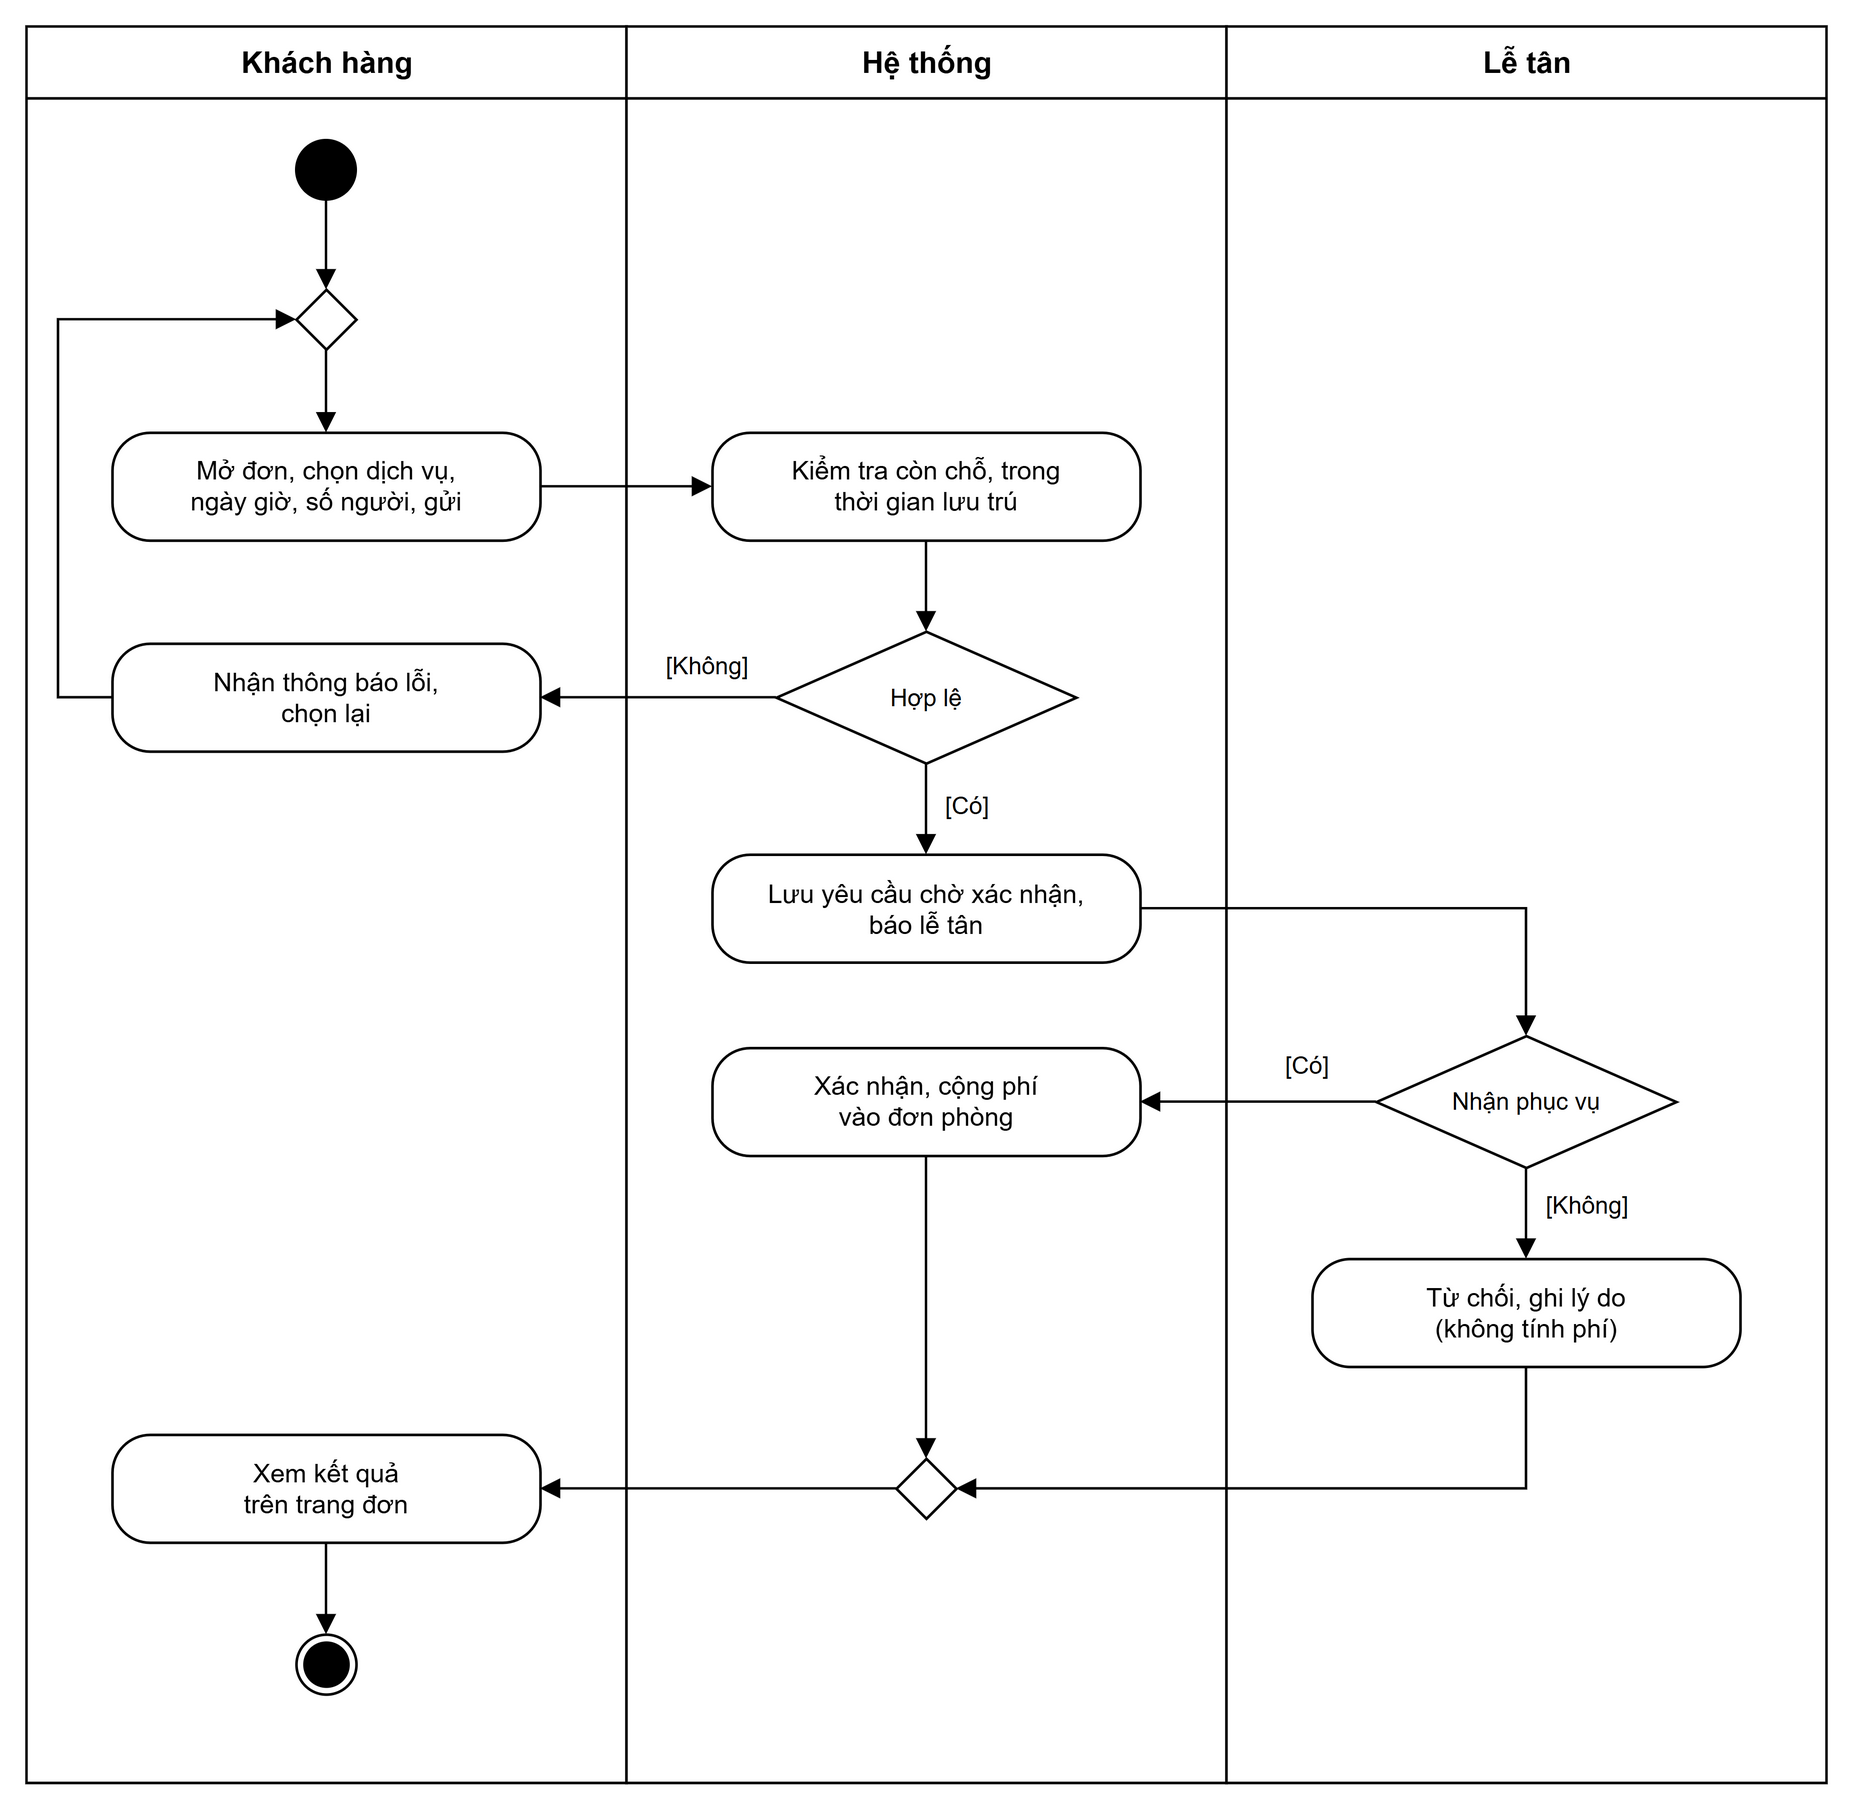
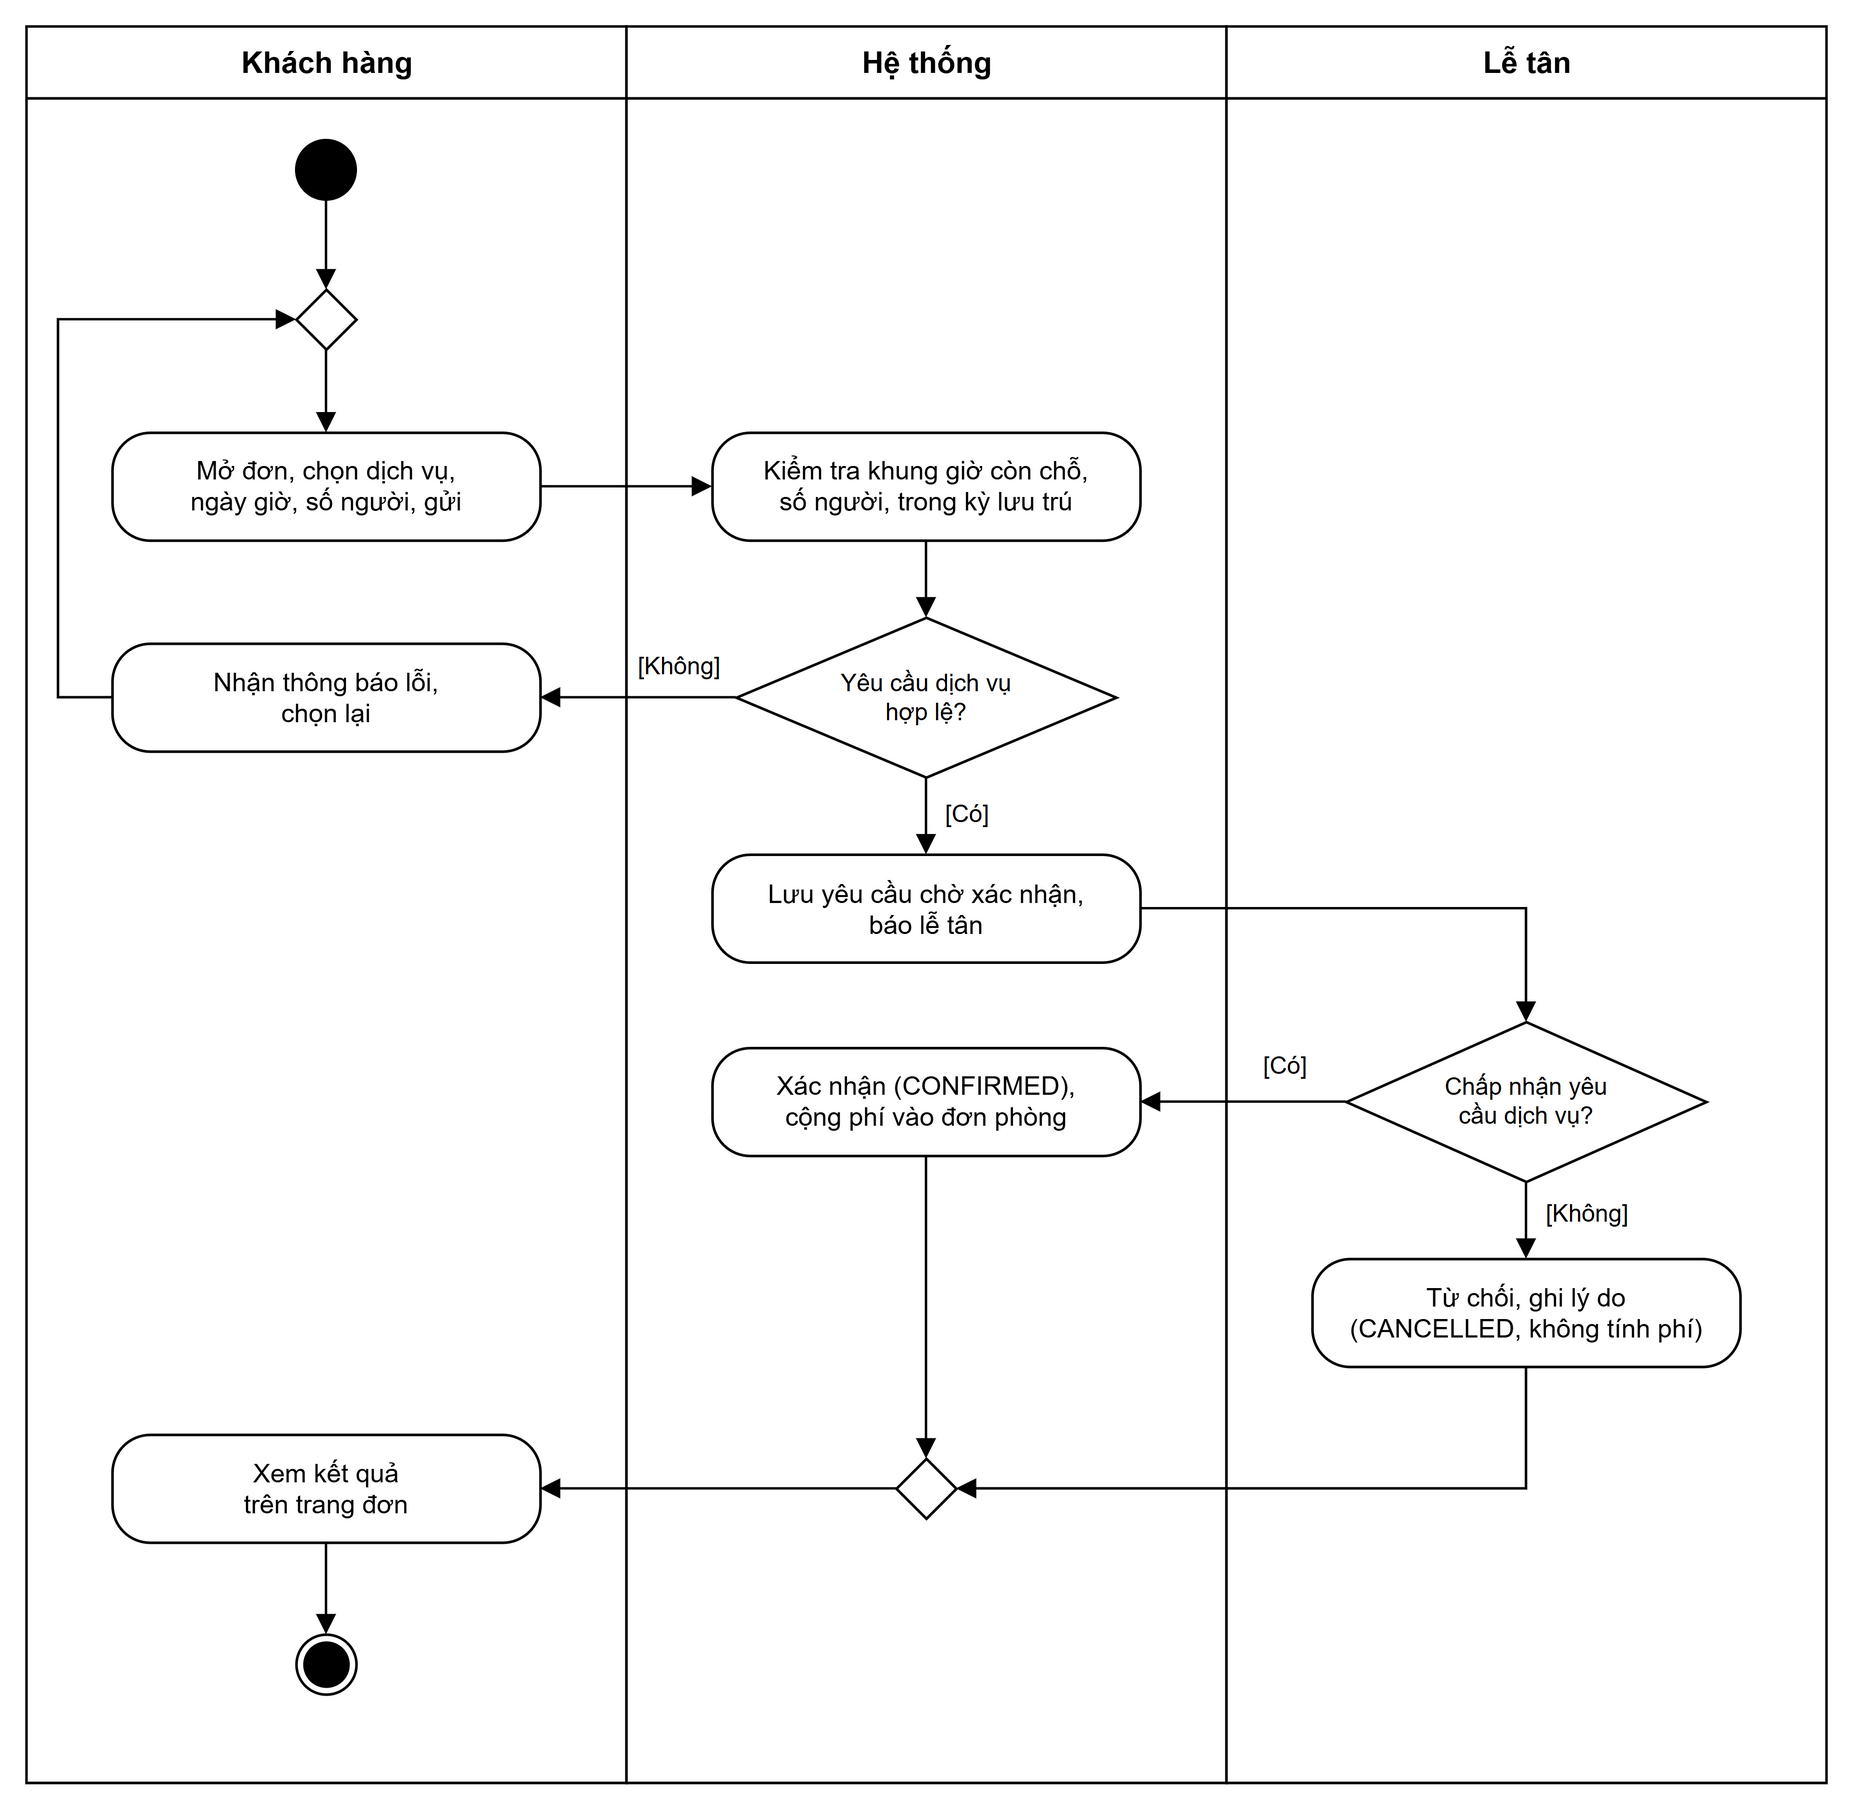
Bieu do hoat dong: ap dung nhan xet (doi chieu code) tren file chu du an - ten hinh thoi dang cau hoi, VNPay chi xu ly giao dich, bao het phong, kiem chua dat ghi ly do bao lam lai, nhanh loi AI; cap nhat TIEN-DO

diff --git a/TIEN-DO.md b/TIEN-DO.md
@@ -37,6 +37,7 @@
 ### Đợt 22 (30/10/2026) - Soát báo cáo Word, sửa chỗ lệch với code / sơ đồ mới
 | Commit | Chức năng |
 |---|---|
+| (xem `git log`) | Theo bản nhận xét chủ dự án dán vào («tham khảo xem»), đối chiếu code rồi sửa thẳng trên 5 file `hd-*.drawio` của chủ dự án (giữ bố cục, nhãn, độ rộng làn; script `hd_review.py`): tên hình thoi thành câu hỏi có «?» (Có phát sinh phụ phí?, Có yêu cầu kiểm tra phòng?, Số tiền cần hoàn > 0?, Hoàn tiền qua VNPay thành công?, Yêu cầu dịch vụ hợp lệ?, Chấp nhận yêu cầu dịch vụ?, Có yêu cầu phân tích bằng AI?, Nhận được kết quả AI hợp lệ?). **2.8**: hộp «Báo phòng đã hết» trước khi quay lại tìm phòng; khách «Thanh toán trên cổng VNPay» ở làn Khách hàng, làn VNPay chỉ còn «Xử lý giao dịch, gửi kết quả»; «Tạo URL thanh toán VNPay kèm chữ ký bảo mật»; lỗi thanh toán → «đơn vẫn chờ đặt cọc». **2.9**: kiểm chưa đạt → lễ tân «Ghi lý do chưa đạt, báo buồng phòng làm lại» (`HousekeepingService.fail`) rồi mới quay về dọn. **2.10**: «Tính trước số tiền dự kiến» / «Chuyển CANCELLED, chốt số tiền hoàn», «Hoàn lại điểm thưởng / số dư thẻ quà tặng (nếu có)», «Chuyển khoản thủ công». **2.11**: CONFIRMED / CANCELLED ghi rõ (code không có trạng thái REJECTED, không gửi email kết quả dịch vụ nên không thêm). **2.12**: nhánh lỗi có hộp «Báo lỗi rõ lý do (giữ báo cáo cơ bản)», làn Hệ thống nới 300 → 440. Viết lại 5 đoạn mô tả dưới hình trong `patch_hd.py`. **Chưa ghi vào Word** (Word đang mở): đóng Word rồi chạy `patch_hd.py` + `word_update.ps1` |
 | (xem `git log`) | Chủ dự án tự sửa 5 file `docs/thiet-ke/hd-*.drawio` (bỏ dấu «?» trong hình thoi, dời nhãn [..] ra cạnh đường). Theo yêu cầu «luật ghép nhiều trường hợp cần 1 thanh dọc hoặc ngang ... thêm vào word»: thêm **thanh fork / join** (UML: việc chạy song song; hình thoi merge vẫn giữ cho nhánh chọn một) vào **Hình 2.9** (sau «Xác nhận trả phòng (CHECKED_OUT)»: cộng điểm, gửi email ‖ phòng «Chờ dọn», báo buồng phòng → join → buồng phòng dọn) và **Hình 2.10** (sau «Chuyển đơn sang CANCELLED»: trả điểm, số dư thẻ quà tặng ‖ gửi email xác nhận hủy → join → «Đã cọc và tiền hoàn > 0»), theo `checkOut()` / `cancelBooking()`. Sửa thẳng trên file của chủ dự án (giữ mọi chỉnh tay), làn «Hệ thống» nới 300 → 380 để 2 hộp song song đứng cạnh nhau; script `docs/so-do-rut-gon-dang-lam/hd_fork.py`. Xuất lại cả 5 ảnh từ file chủ dự án, thay vào Word + sửa đoạn mô tả dưới Hình 2.9, 2.10 (`patch_hd.py`), xuất PDF 325 trang. Hình 2.8, 2.11, 2.12 không có việc song song nên không thêm. Bản slide `docs/slide/` chưa có fork / join |
 | (xem `git log`) | Theo yêu cầu «biểu đồ hoạt động đã đúng logic chưa ... cho vào slide nó bao phủ slide»: đối chiếu 5 biểu đồ với code. **Sửa Hình 2.8**: tạo đơn xong hệ thống mở trang chi tiết đơn (chờ cọc), khách tự bấm «Đặt cọc qua VNPay» thì mới tạo link thanh toán (`CustomerBookingController.createBooking` → redirect trang đơn, `VnPayController.start`); bản trước gộp thành «tạo đơn, tạo link VNPay». 4 hình còn lại khớp code (`checkOut`, `HousekeepingService.finish/pass`, `cancelBooking`, `confirmRefund*`, `FacilityReservationService.confirm`). **Bản cho slide** `docs/slide/hd-*.drawio` + `.png`: làn nằm ngang, luồng trái → phải, tỉ lệ ~2:1 (vừa khung 16:9 trừ tiêu đề), chữ 17px, cùng nội dung với bản Word, 1 bắt đầu / 1 kết thúc. Script `hd_slide.py`. **Đã thay Hình 2.8 mới vào Word** (`patch_hd.py` thay 5 ảnh hd-* theo chú thích, rộng 12 cm, rồi `word_update.ps1`), xuất lại PDF 325 trang |
 | (xem `git log`) | Theo yêu cầu «biểu đồ hoạt động vẽ dễ đọc 2 đến 3 actor thôi, 1 điểm bắt đầu, 1 điểm kết thúc, vẽ đẹp»: **vẽ lại 5 biểu đồ hoạt động** (Hình 2.8 - 2.12), mỗi hình 3 làn, đúng **1 nút bắt đầu + 1 nút kết thúc** (mọi nhánh kết thúc gom về nút merge trước nút kết thúc), bớt bước phụ, chữ trong hộp ngắn gọn (2 dòng), chữ Arial to hơn, nét đậm hơn, không đường cắt. Đặt phòng: hết phòng quay về tìm phòng, thanh toán lỗi / thành công cùng về 1 kết thúc; hủy đơn: không hủy / không cần hoàn / đã hoàn cùng về 1 kết thúc; lãi lỗ AI: gộp giá vốn vào bước nhập chi phí. Script `docs/so-do-rut-gon-dang-lam/hd_gen.py`. **Đã thay ảnh trong Word** (5 hình cùng chiều rộng 12 cm), cập nhật mục lục, xuất lại PDF (325 trang); đoạn mô tả dưới các hình vẫn khớp nên giữ nguyên |
